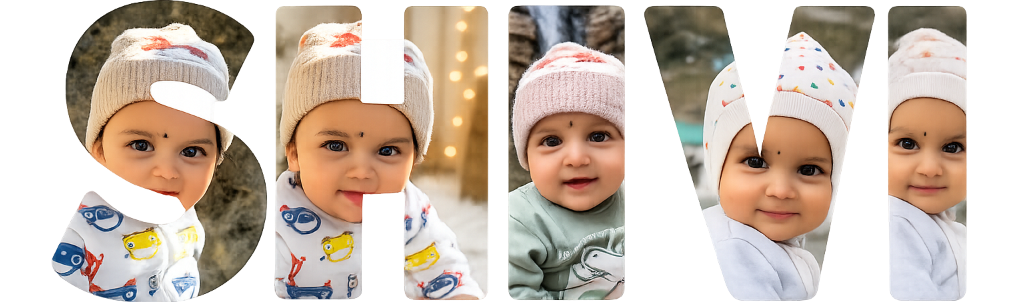
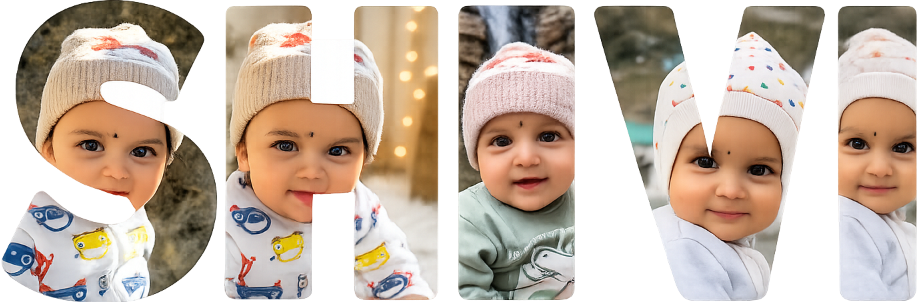
Trim transparent padding from shivi_cutout.png (1019->918px), fix container to fit-content, remove mix-blend-mode causing ghost spacing

diff --git a/assets/css/style.css b/assets/css/style.css
@@ -445,12 +445,12 @@ em { font-style: italic; }
   font-style: italic;
   font-weight: 800;
   color: var(--plum);
-  margin-bottom: 0.3rem;
+  margin-bottom: 0.8rem;
   display: flex;
   flex-direction: column;
   align-items: center;
   justify-content: center;
-  gap: 0;
+  gap: 0.1rem;
   text-shadow: 0 2px 12px rgba(255, 255, 255, 0.9);
 }
 
@@ -465,26 +465,32 @@ em { font-style: italic; }
 }
 
 .shivi-inline-photo {
-  display: inline-block;
+  display: inline-flex;
+  align-items: center;
+  justify-content: center;
   position: relative;
-  margin: 0.1rem auto;
-  padding: 0;
   background: transparent;
+  padding: 0;
+  margin: 0;
+  width: fit-content;
+  height: fit-content;
+  line-height: 0; /* removes inline gap below img */
+  font-size: 0;
 }
 
 .shivi-cutout-img {
-  height: clamp(85px, 18vw, 160px);
+  height: clamp(140px, 30vw, 290px);
   width: auto;
-  max-width: min(960px, 94vw);
+  max-width: min(960px, 96vw);
   display: block;
-  margin: 0 auto;
-  mix-blend-mode: multiply;
-  filter: drop-shadow(0 10px 25px rgba(91, 58, 102, 0.25));
+  margin: 0.3rem 0;
+  /* Removed mix-blend-mode: multiply — caused invisible padding to blend with bg */
+  filter: drop-shadow(0 12px 30px rgba(91, 58, 102, 0.28));
   transition: transform 0.35s cubic-bezier(0.175, 0.885, 0.32, 1.275);
 }
 
 .shivi-cutout-img:hover {
-  transform: scale(1.04);
+  transform: scale(1.04) rotate(-1deg);
 }
 
 .hero__unicorn-emoji {
